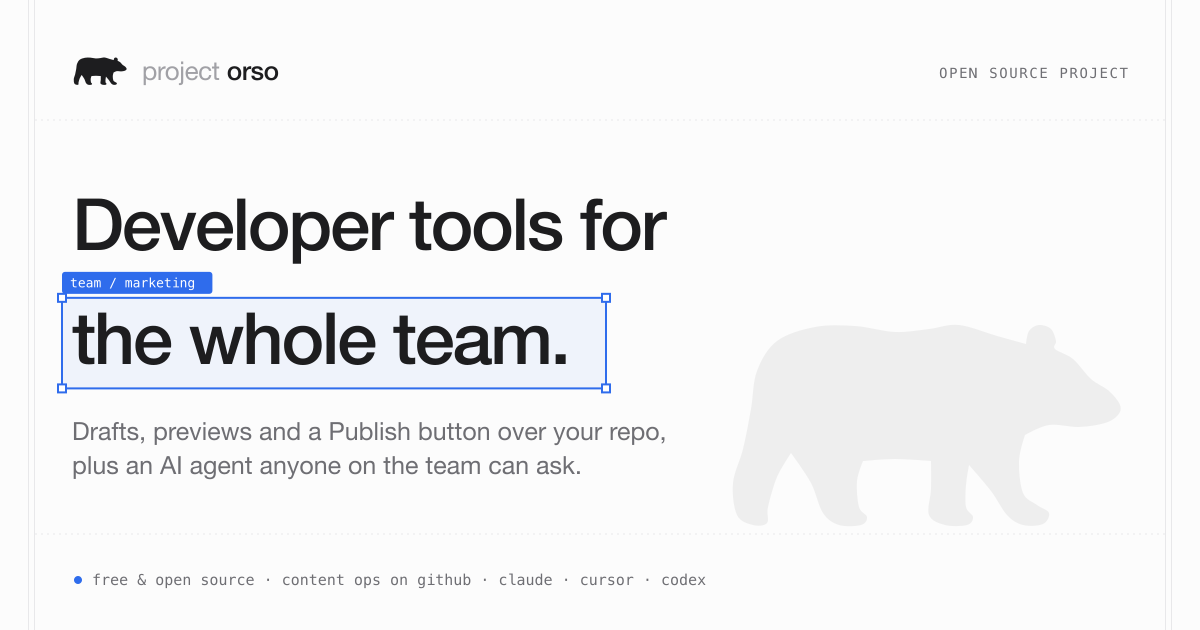
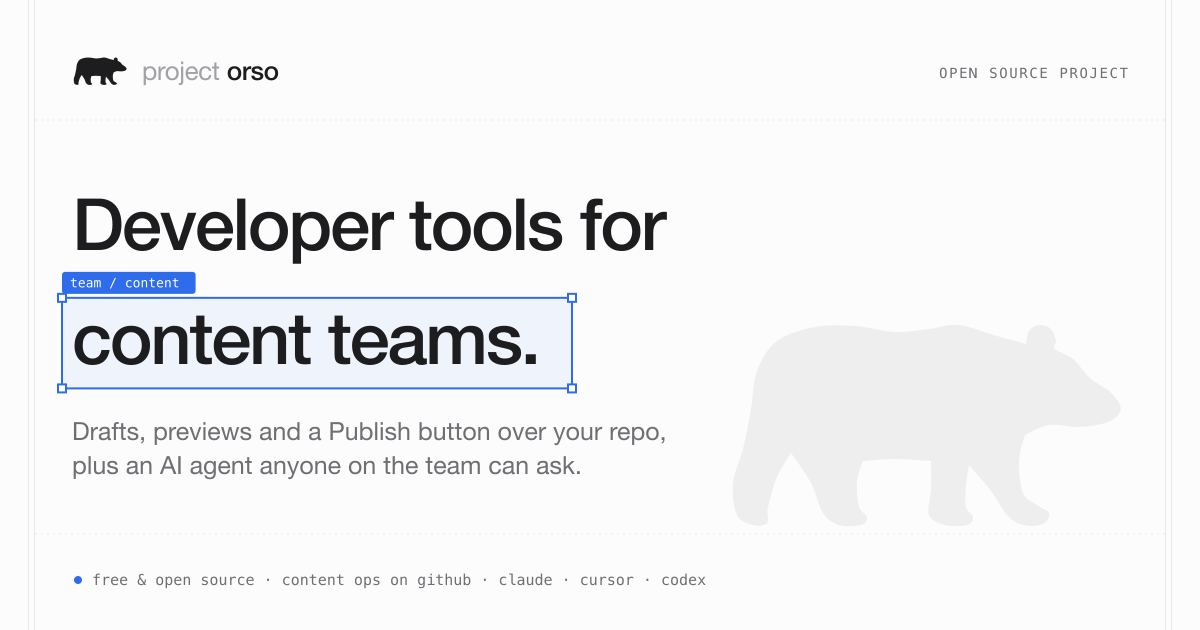
checkpoint: Change tagline to "Developer tools for content teams"

Changed region(s): [[0.0617, 0.4222, 0.5242, 0.6333], [0.4625, 0.4524, 0.5242, 0.4825]]

diff --git a/src/site.ts b/src/site.ts
@@ -2,7 +2,7 @@
 export const site = {
   name: "Project Orso",
   description:
-    "Project Orso gives marketers, writers and founders the tools developers have — drafts, previews, pull requests and coding agents — behind forms and plain English. Free and open source.",
+    "Developer tools for content teams: drafts, previews, pull requests and coding agents behind forms and plain English. Free and open source.",
   nav: [
     { label: "Features", href: "/#features" },
     { label: "Workflow", href: "/#how-it-works" },
@@ -28,7 +28,7 @@ export const site = {
   footer: {
     text: "© 2026 Project Orso. Free and open source.",
     tagline:
-      "Developer tools for the whole team. Your content stays Markdown in a repo you own.",
+      "Developer tools for content teams. Your content stays Markdown in a repo you own.",
     columns: [
       {
         title: "Project",
